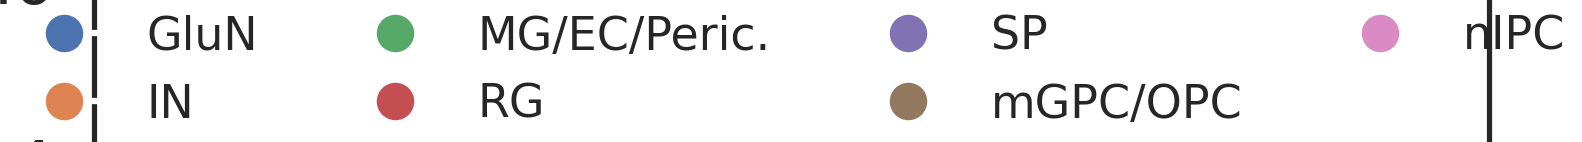
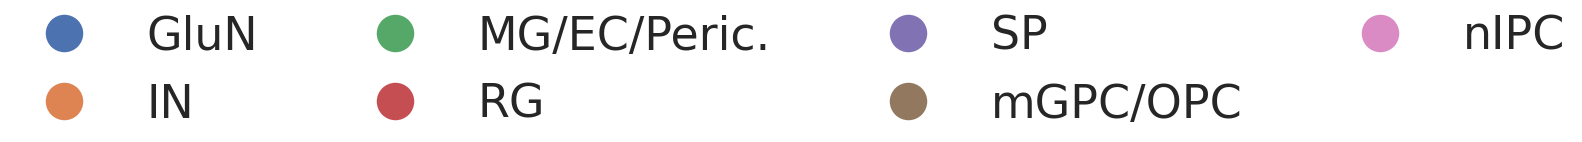
Small legend bugfix

diff --git a/commando/_meta.py b/commando/_meta.py
@@ -1,1 +1,1 @@
-__version__ = '4.1.0'
+__version__ = '4.1.1'

diff --git a/CHANGELOG.md b/CHANGELOG.md
@@ -1,3 +1,6 @@
+# 4.1.1
+- Small fix with label formatting
+
 # 4.1.0
 - Add gradient clipping
 - Added `plot_impact` to `evaluation` module
